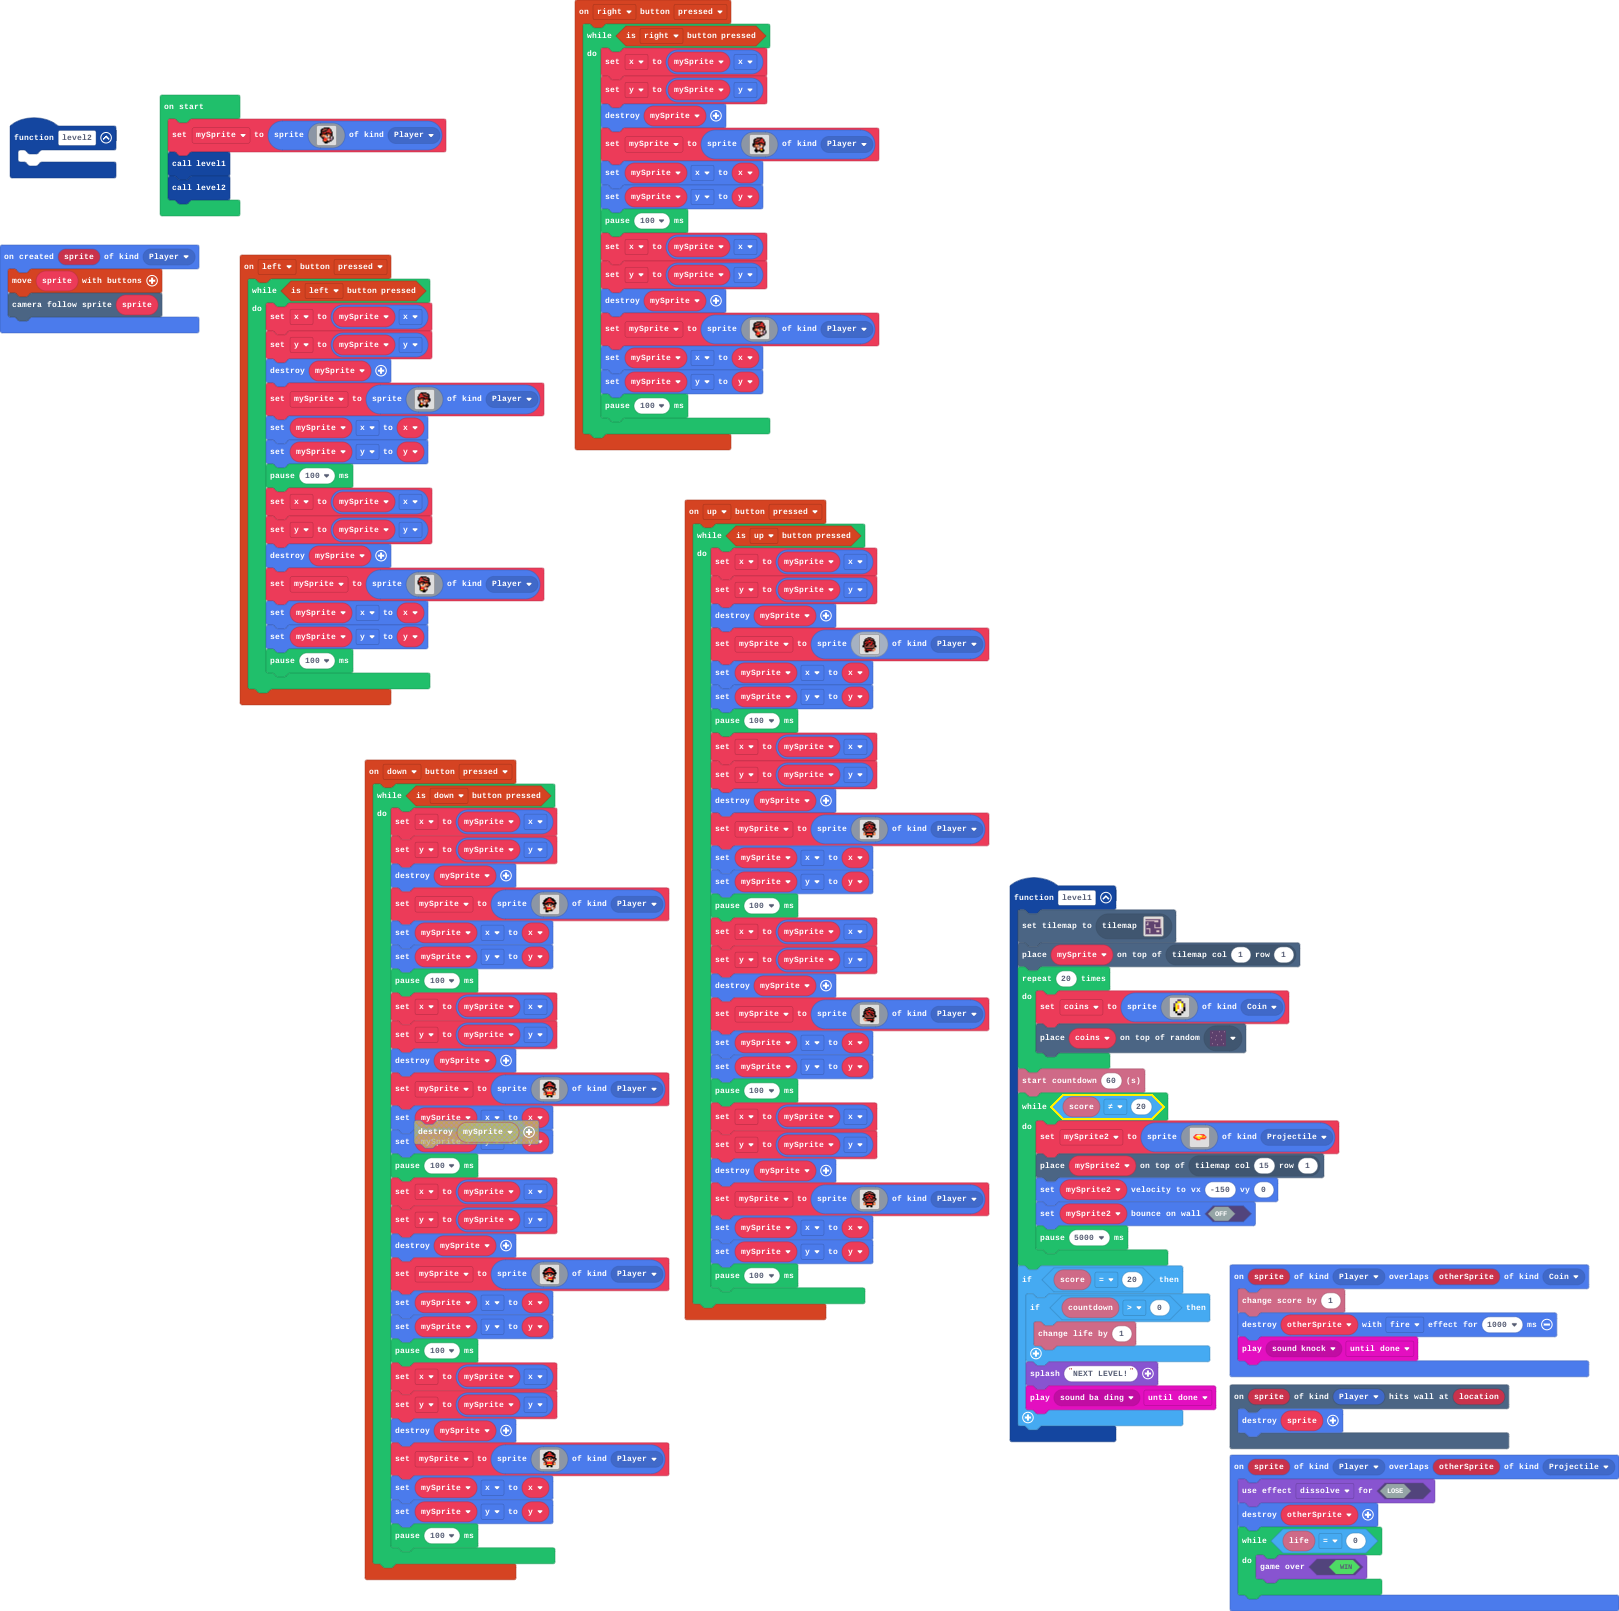
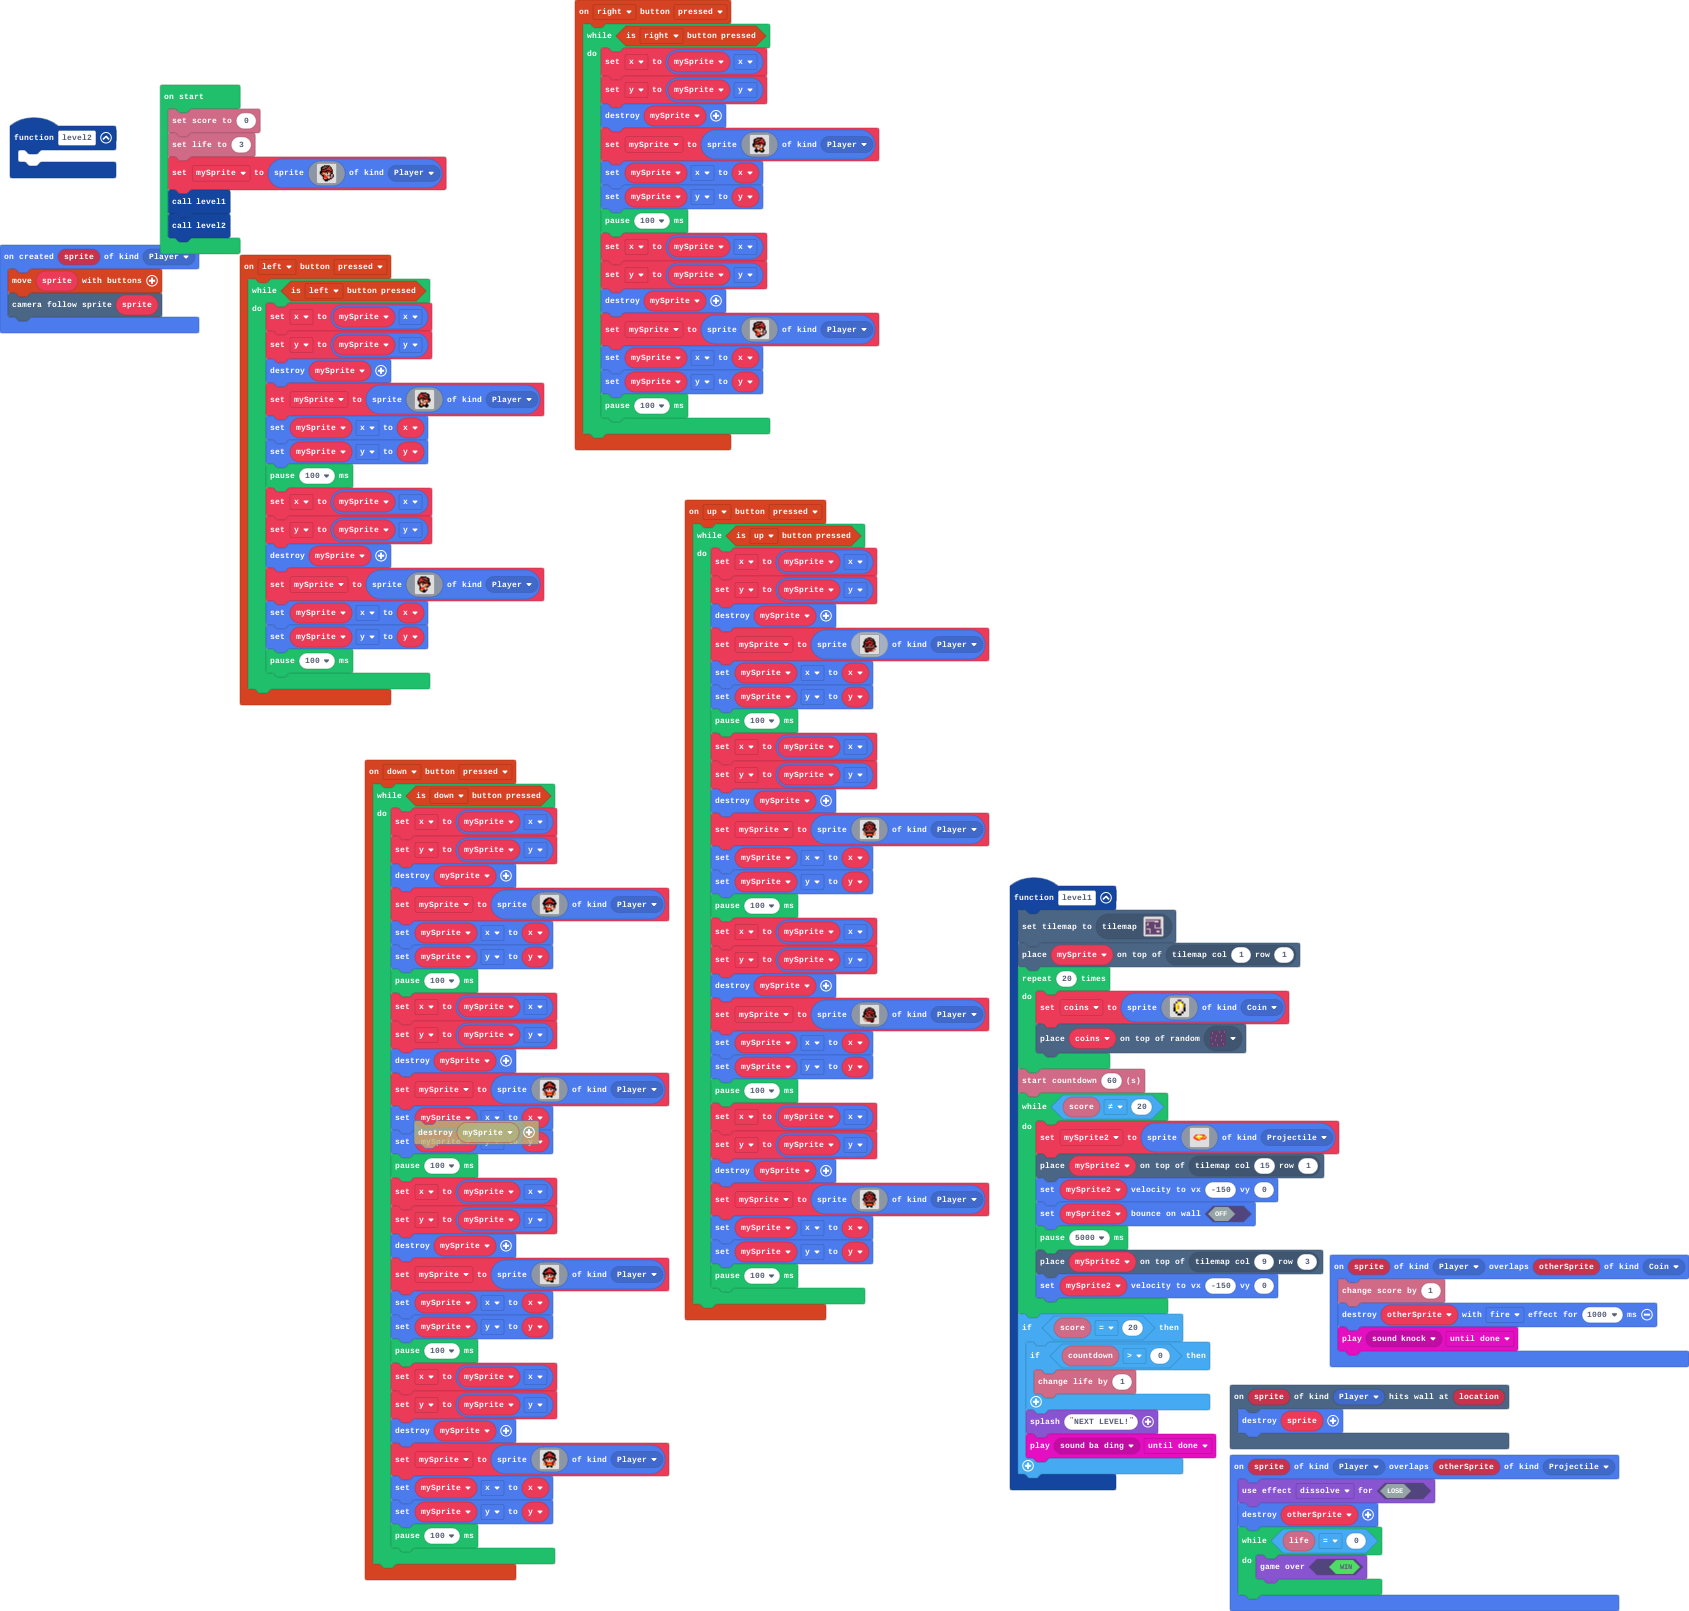
Update main.blocks, main.ts

Changed region(s): [[0.2162, 0.3104, 1.0, 1.0], [0.0, 0.0, 0.5559, 0.4345], [0.9574, 0.9621, 1.0, 1.0]]

diff --git a/main.ts b/main.ts
@@ -149,6 +149,8 @@ function level1 () {
         mySprite2.setVelocity(-150, 0)
         mySprite2.setBounceOnWall(false)
         pause(5000)
+        tiles.placeOnTile(mySprite2, tiles.getTileLocation(9, 3))
+        mySprite2.setVelocity(-150, 0)
     }
     if (info.score() == 20) {
         if (info.countdown() > 0) {
@@ -269,7 +271,7 @@ sprites.onOverlap(SpriteKind.Player, SpriteKind.Projectile, function (sprite, ot
     game.setGameOverEffect(false, effects.dissolve)
     sprites.destroy(otherSprite)
     while (info.life() == 0) {
-        game.gameOver(false)
+        game.gameOver(true)
     }
 })
 controller.down.onEvent(ControllerButtonEvent.Pressed, function () {
